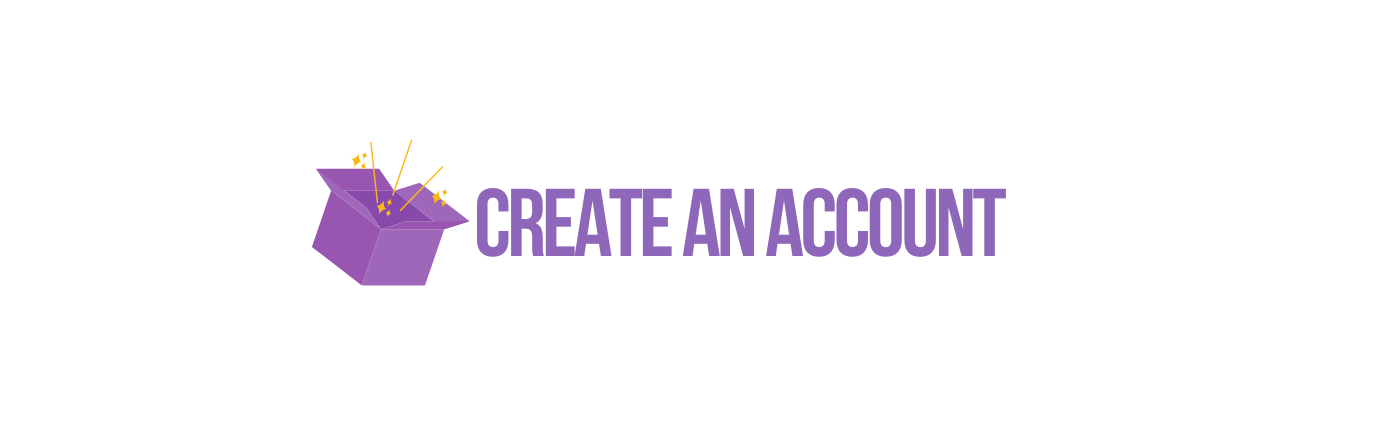
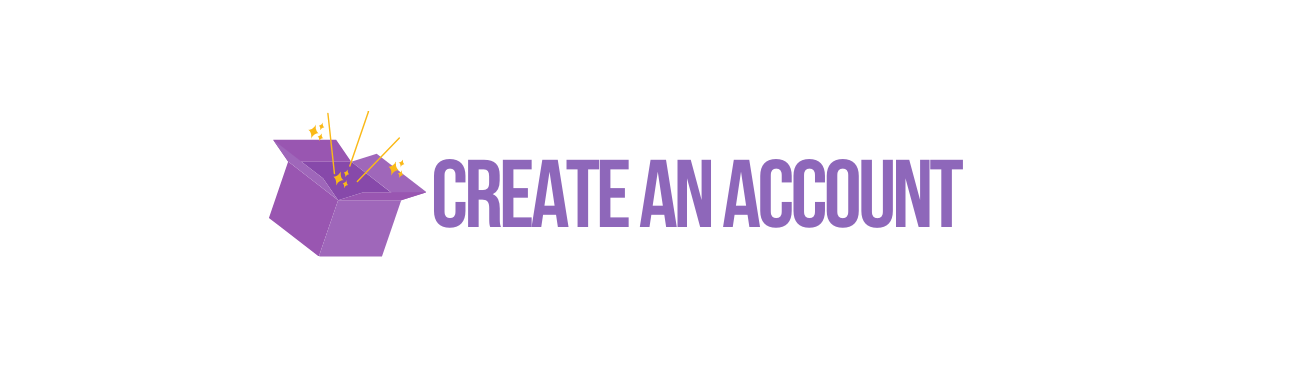
login page edits

Changed region(s): [[0.1832, 0.3288, 0.7328, 0.7174]]

diff --git a/client/components/auth-form.js b/client/components/auth-form.js
@@ -10,26 +10,42 @@ const AuthForm = props => {
   const {name, displayName, handleSubmit, error} = props
 
   return (
-    <div>
+    <div className="has-text-centered">
+      <img id="allBanner" src="LOGIN.png" />
       <form onSubmit={handleSubmit} name={name}>
-        <div>
-          <label htmlFor="email">
+        <div className="field">
+          <label className="label" htmlFor="email">
             <small>Email</small>
           </label>
-          <input name="email" type="text" />
+          <input name="email" type="text" className="input" />
         </div>
+
+        <br />
+
         <div>
-          <label htmlFor="password">
+          <label className="label" htmlFor="password">
             <small>Password</small>
           </label>
-          <input name="password" type="password" />
+          <input name="password" type="password" className="input" />
         </div>
+
+        <br />
+
         <div>
-          <button type="submit">{displayName}</button>
+          <button type="submit" className="button is-primary">
+            {displayName}
+          </button>
         </div>
+
         {error && error.response && <div> {error.response.data} </div>}
       </form>
-      <a href="/auth/google">{displayName} with Google</a>
+
+      <a href="/auth/google" className="button is-info">
+        {displayName} with Google
+      </a>
+
+      <br />
+      <br />
     </div>
   )
 }

diff --git a/client/components/SignUp.js b/client/components/SignUp.js
@@ -58,9 +58,12 @@ const SignUp = props => {
         {error && error.response && <div> {error.response.data} </div>}
       </form>
 
-      <a href="/auth/google" className="button is-primary">
+      <a href="/auth/google" className="button is-info">
         {displayName} with Google
       </a>
+
+      <br />
+      <br />
     </div>
   )
 }
